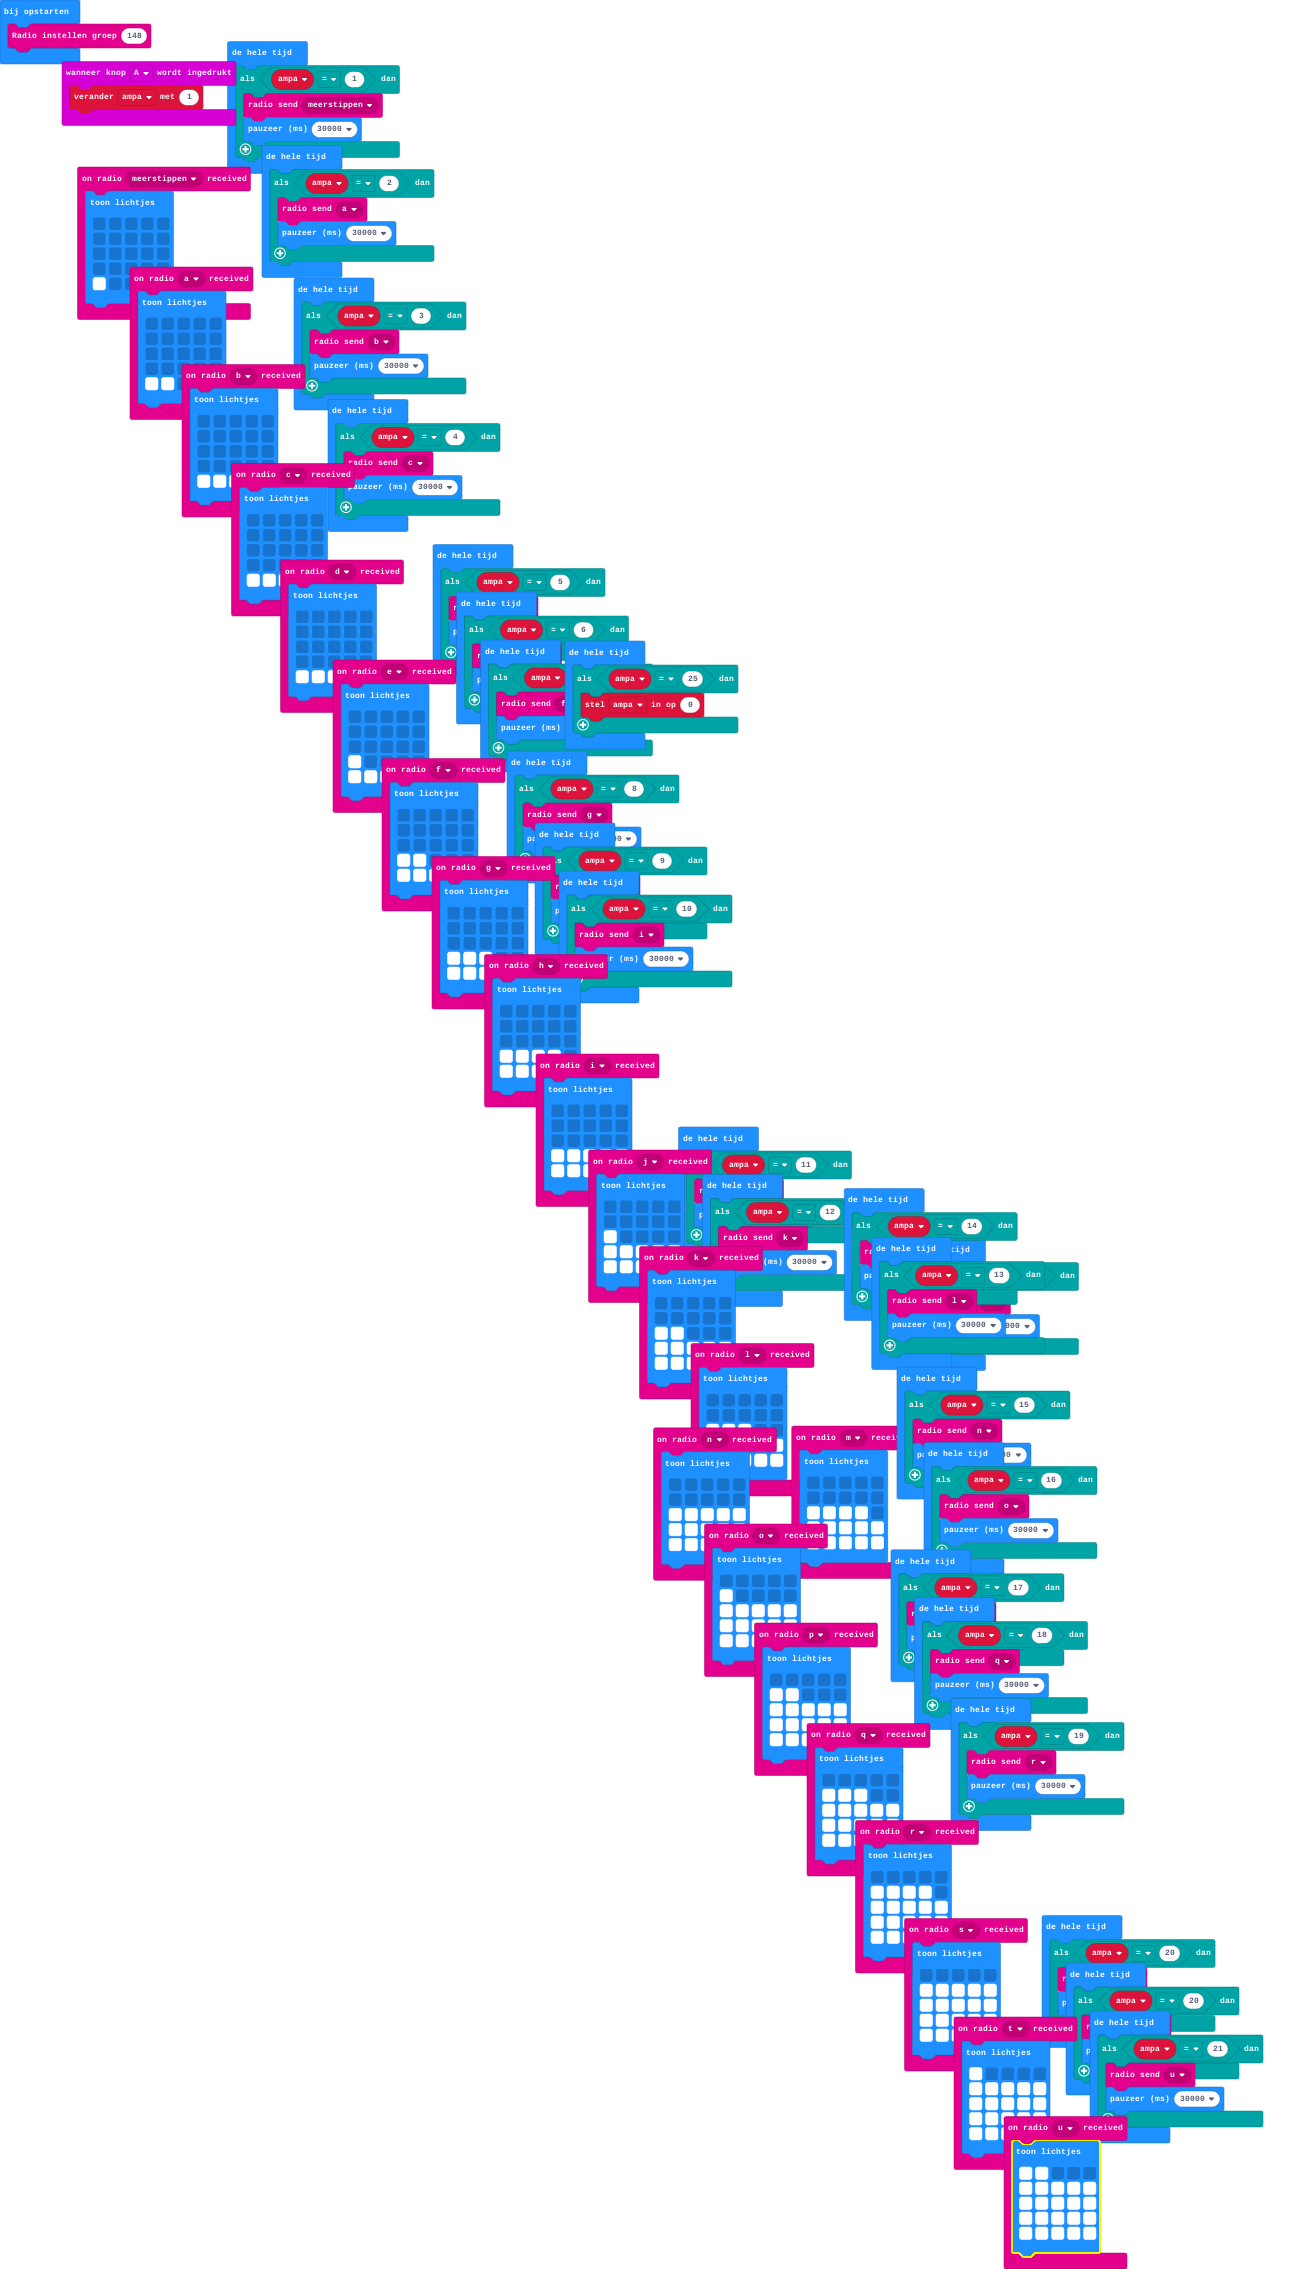
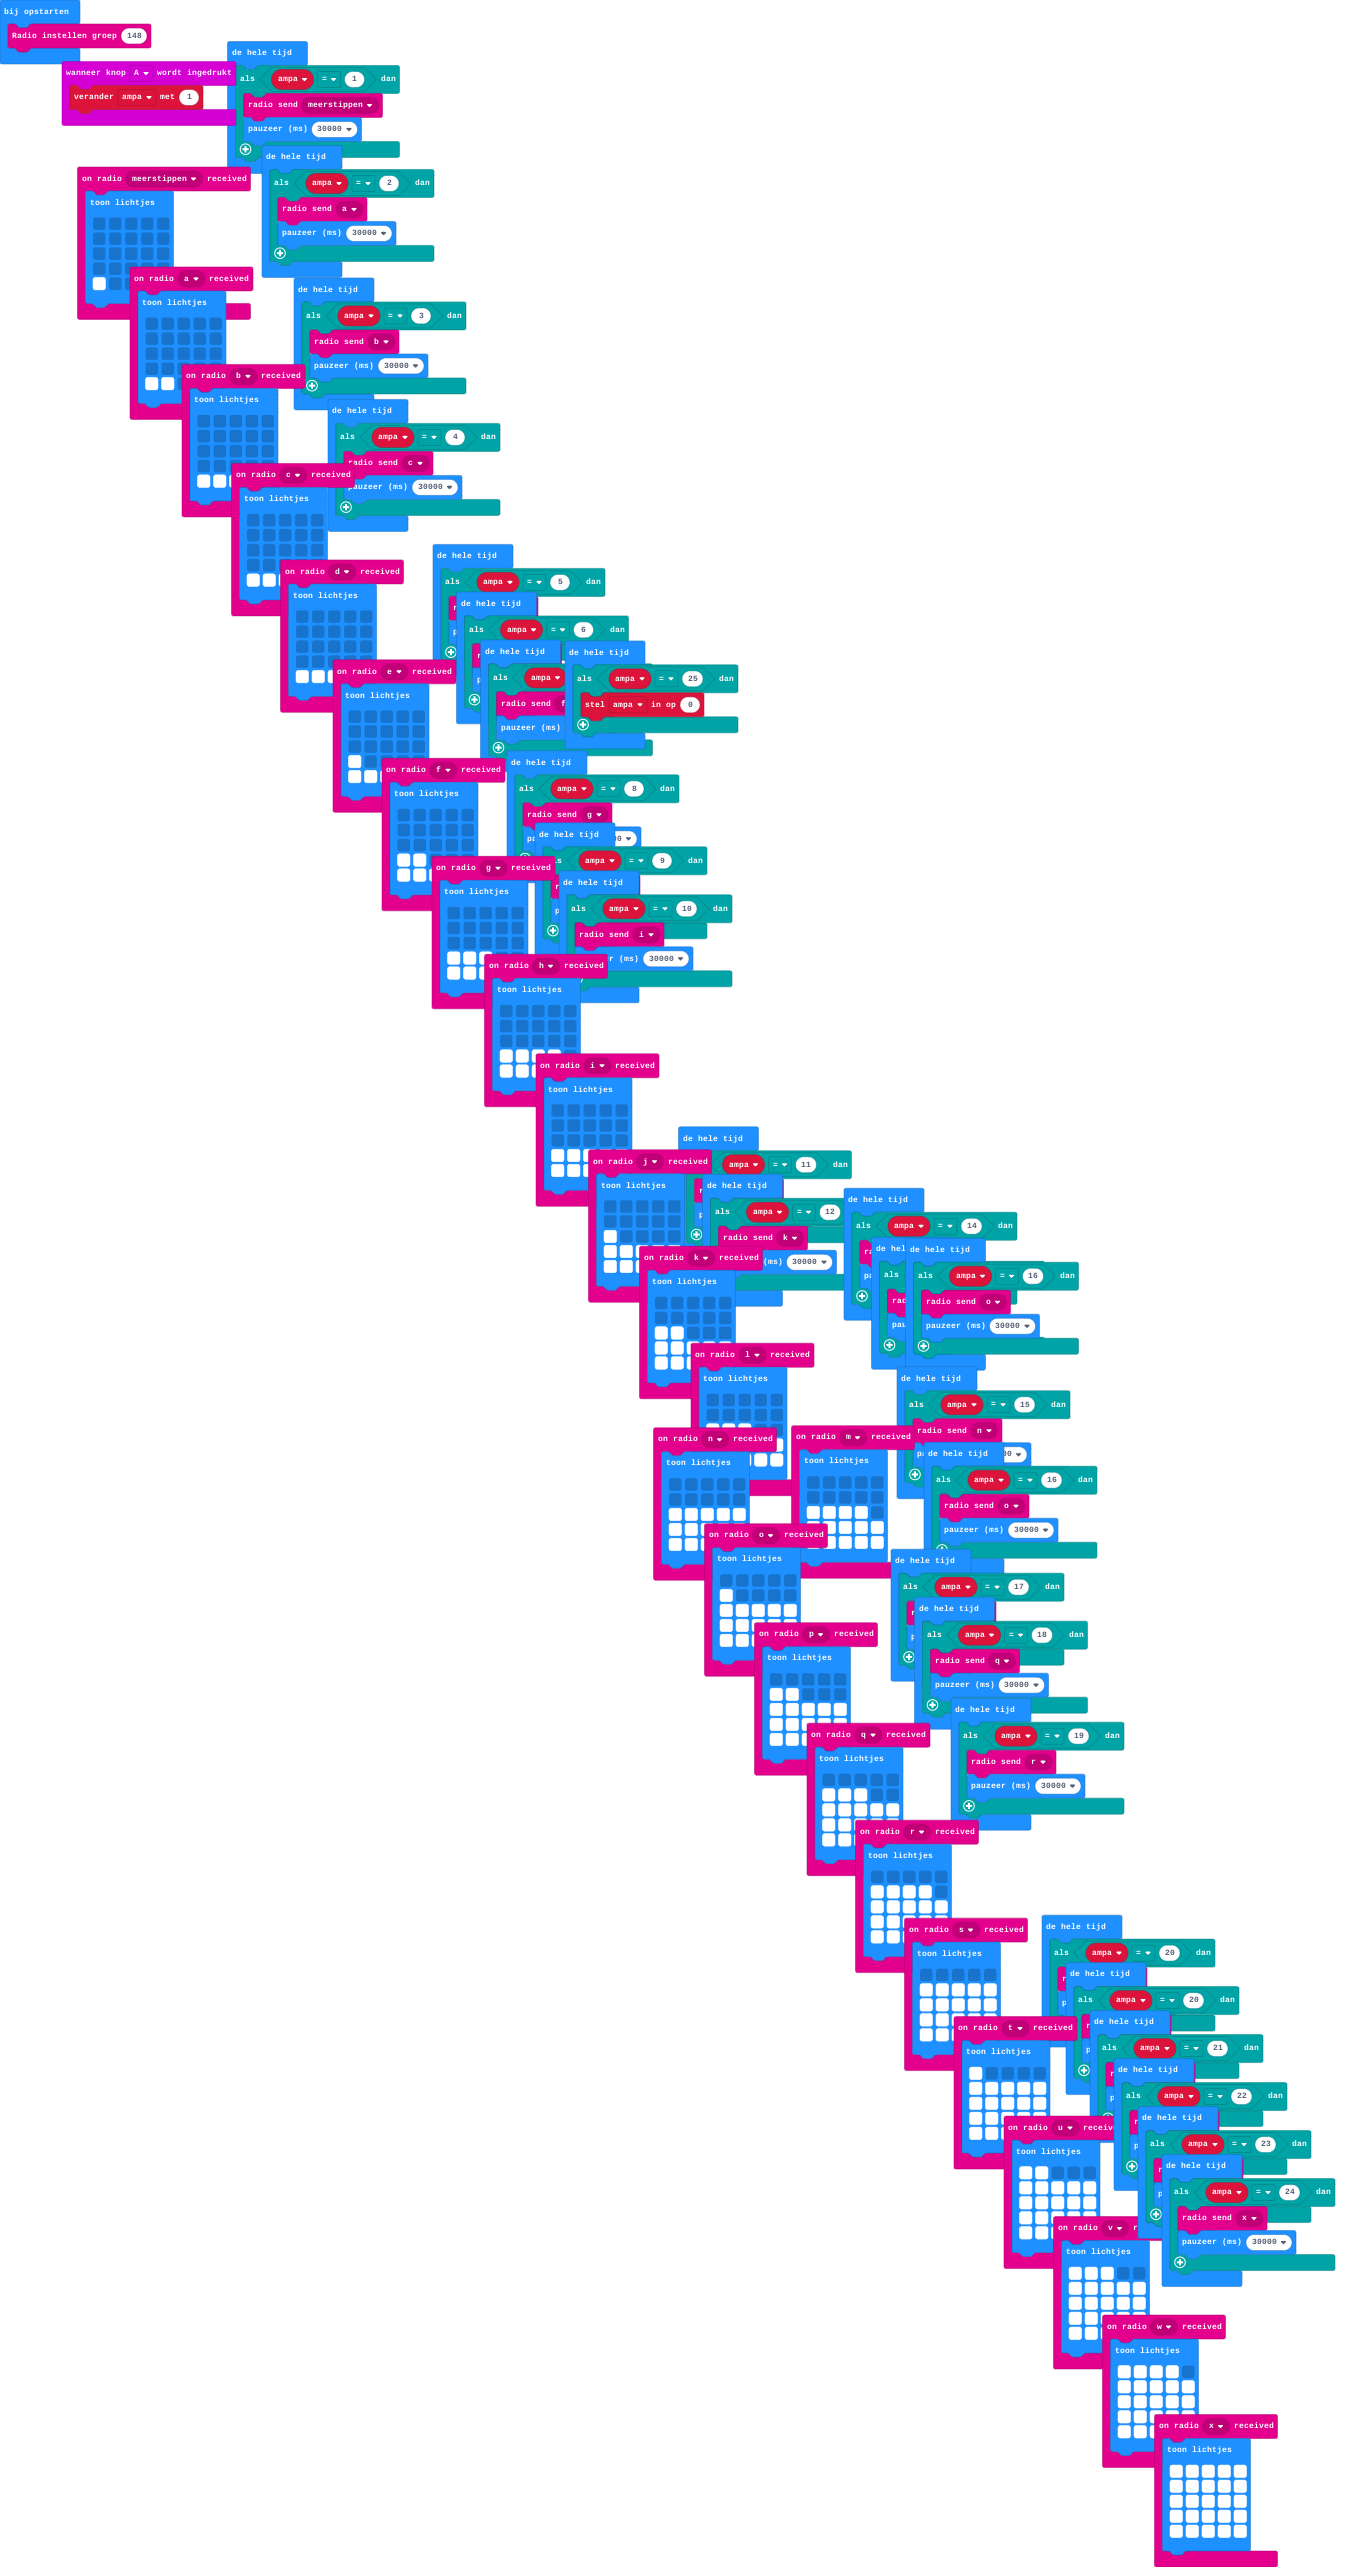
main.blocks, main.ts bijwerken

Changed region(s): [[0.0, 0.0, 0.993, 1.0]]

diff --git a/main.ts b/main.ts
@@ -21,8 +21,20 @@ enum RadioMessage {
     r = 57643,
     s = 45537,
     t = 6833,
-    u = 39706
+    u = 39706,
+    v = 38555,
+    w = 54422,
+    x = 36564
 }
+radio.onReceivedMessage(RadioMessage.w, function () {
+    basic.showLeds(`
+        # # # # .
+        # # # # #
+        # # # # #
+        # # # # #
+        # # # # #
+        `)
+})
 radio.onReceivedMessage(RadioMessage.o, function () {
     basic.showLeds(`
         . . . . .
@@ -134,6 +146,15 @@ radio.onReceivedMessage(RadioMessage.h, function () {
         # # # # #
         `)
 })
+radio.onReceivedMessage(RadioMessage.v, function () {
+    basic.showLeds(`
+        # # # . .
+        # # # # #
+        # # # # #
+        # # # # #
+        # # # # #
+        `)
+})
 radio.onReceivedMessage(RadioMessage.m, function () {
     basic.showLeds(`
         . . . . .
@@ -149,6 +170,15 @@ radio.onReceivedMessage(RadioMessage.f, function () {
         . . . . .
         . . . . .
         # # . . .
+        # # # # #
+        `)
+})
+radio.onReceivedMessage(RadioMessage.x, function () {
+    basic.showLeds(`
+        # # # # #
+        # # # # #
+        # # # # #
+        # # # # #
         # # # # #
         `)
 })
@@ -366,6 +396,24 @@ basic.forever(function () {
 basic.forever(function () {
     if (ampa == 21) {
         radio.sendMessage(RadioMessage.u)
+        basic.pause(30000)
+    }
+})
+basic.forever(function () {
+    if (ampa == 22) {
+        radio.sendMessage(RadioMessage.v)
+        basic.pause(30000)
+    }
+})
+basic.forever(function () {
+    if (ampa == 23) {
+        radio.sendMessage(RadioMessage.w)
+        basic.pause(30000)
+    }
+})
+basic.forever(function () {
+    if (ampa == 24) {
+        radio.sendMessage(RadioMessage.x)
         basic.pause(30000)
     }
 })
